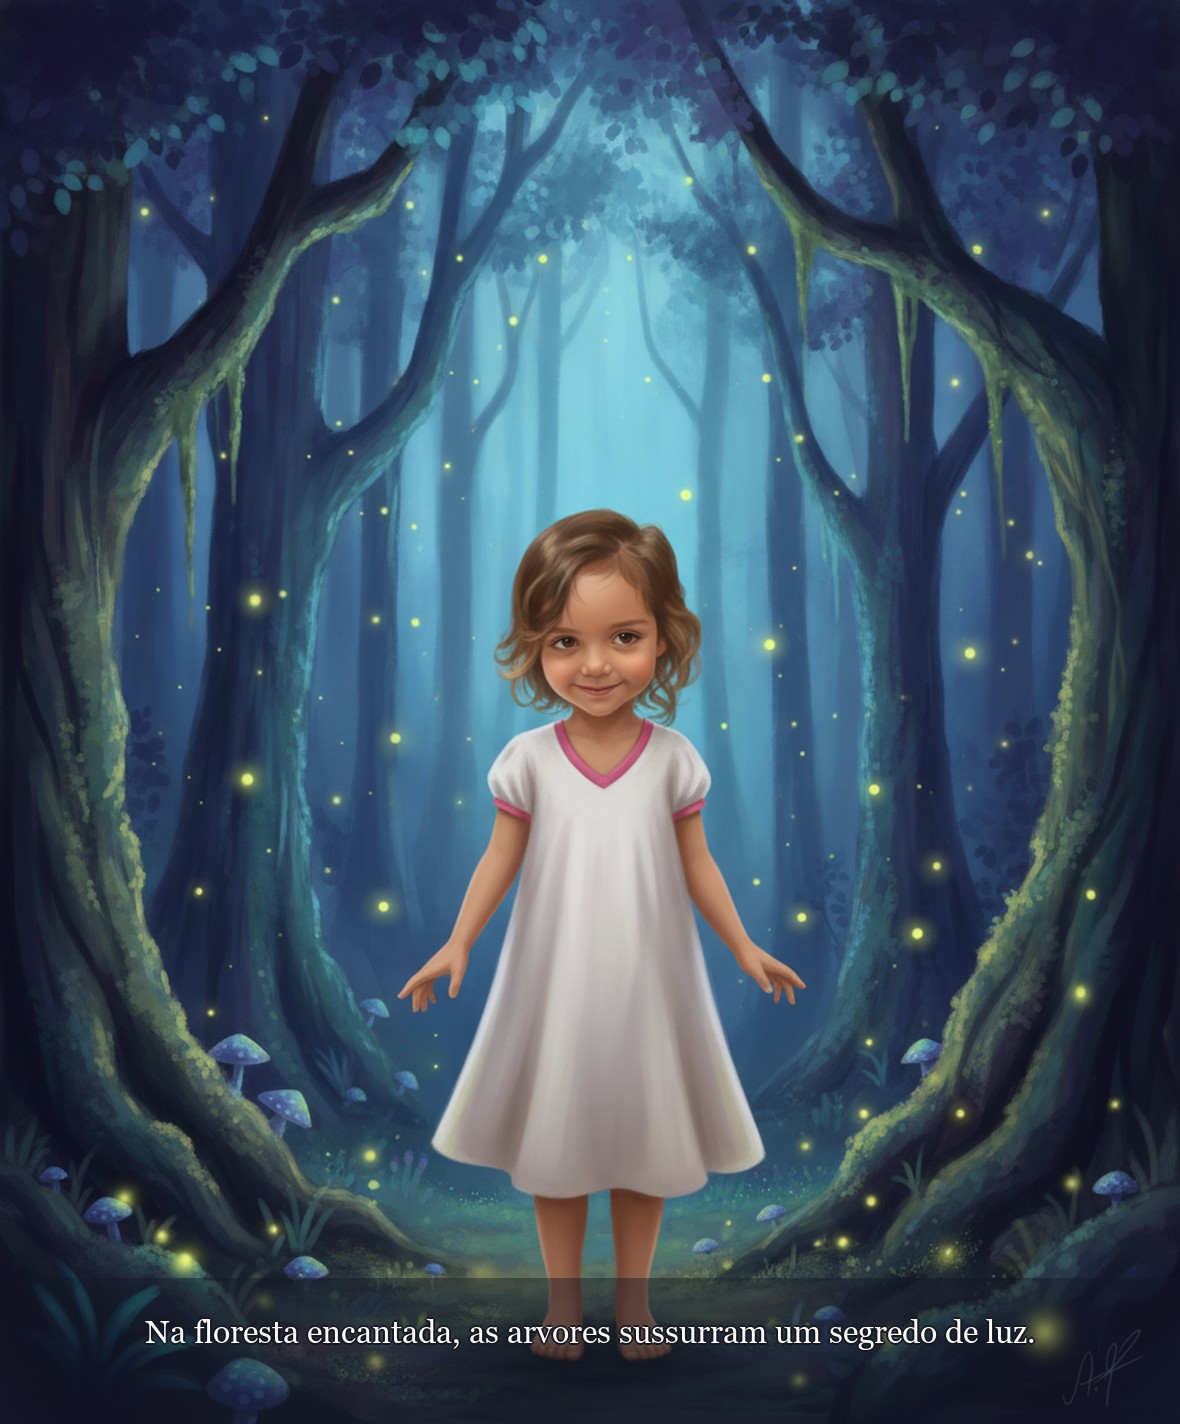
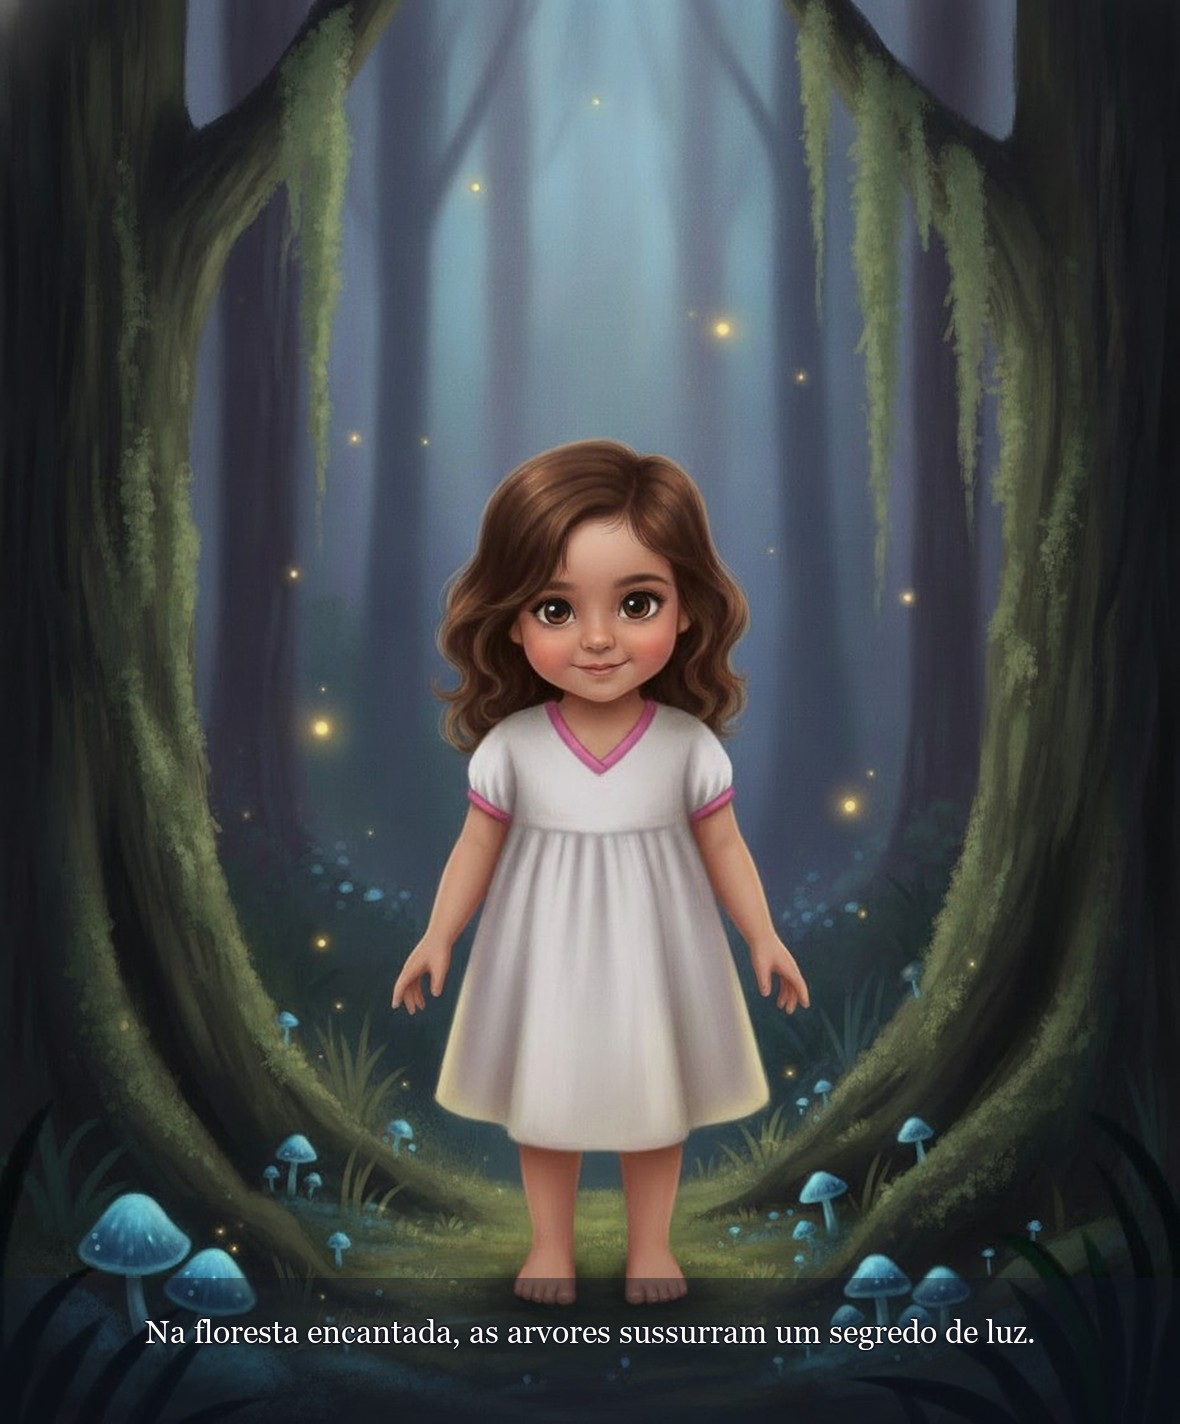
Regenerate Sofia cover face to match her photo and focus the hero crop.

diff --git a/apps/web/src/Landing.tsx b/apps/web/src/Landing.tsx
@@ -76,7 +76,7 @@ const HERO_SLIDES: {
     },
   },
   {
-    photo: "foto-sofia.png", book: "capa-floresta2.jpg", catalogI: 1, bookPos: "center 32%", photoPos: "center center",
+    photo: "foto-sofia.png", book: "capa-floresta2.jpg", catalogI: 1, bookPos: "center 26%", photoPos: "center 22%",
     titleLines: {
       pt: ["Sofia e a Floresta", "Encantada"],
       en: ["Sofia and the", "Enchanted Forest"],

diff --git a/backend/scripts/fix_sofia_face.py b/backend/scripts/fix_sofia_face.py
@@ -1,0 +1,99 @@
+# -*- coding: utf-8 -*-
+"""Regenera avatar + capa da Sofia com rosto fiel a foto-sofia.png.
+
+Uso (Story2/backend):
+  python scripts/fix_sofia_face.py
+"""
+from __future__ import annotations
+
+import asyncio
+import os
+import sys
+from pathlib import Path
+
+BACKEND = Path(__file__).resolve().parents[1]
+ROOT = BACKEND.parent
+sys.path.insert(0, str(BACKEND))
+os.chdir(BACKEND)
+
+import io  # noqa: E402
+
+from PIL import Image  # noqa: E402
+
+from app.ai import gemini  # noqa: E402
+from app.config import settings  # noqa: E402
+
+# Ambiente Windows local às vezes falha o CA bundle; geração pontual não precisa travar nisso.
+settings.gemini_ssl_verify = False
+
+EXEMPLOS = ROOT / "apps" / "web" / "public" / "exemplos"
+
+
+def to_jpg(img_bytes: bytes, out: Path, max_w: int = 1180) -> None:
+    im = Image.open(io.BytesIO(img_bytes)).convert("RGB")
+    if im.width > max_w:
+        im = im.resize((max_w, int(im.height * max_w / im.width)), Image.LANCZOS)
+    im.save(out, "JPEG", quality=90, optimize=True)
+PHOTO = EXEMPLOS / "foto-sofia.png"
+AVATAR = EXEMPLOS / "_avatar-flor.png"
+COVER = EXEMPLOS / "capa-floresta2.jpg"
+HERO = EXEMPLOS / "hero-flor.jpg"
+PAGE1 = EXEMPLOS / "flor-1.jpg"
+
+
+COVER_NOTE = (
+    "BOOK COVER scene (no text anywhere). Sofia alone in a mystical enchanted forest "
+    "at twilight, framed by two large dark tree trunks with soft hanging moss. "
+    "Gentle yellow fireflies and tiny glowing blue mushrooms. She stands facing camera, "
+    "barefoot, white dress with thin pink trim on V-neck and sleeves, soft curious smile. "
+    "CRITICAL FACE RULES: face must be an exact likeness of the attached photo AND character "
+    "reference — same round cheeks, same eye shape/spacing, same small closed-mouth smile, "
+    "same wavy medium-brown hair, same skin tone. Natural symmetric features, soft painterly "
+    "blend into the scene (not pasted-on), no uncanny asymmetry, no oversized anime eyes. "
+    "Refined premium children's picture book, soft realistic lighting. No text, letters, logos."
+)
+
+
+async def main() -> None:
+    if not settings.gemini_api_key:
+        raise SystemExit("GEMINI_API_KEY ausente")
+    if not PHOTO.is_file():
+        raise SystemExit(f"foto ausente: {PHOTO}")
+
+    os.environ.setdefault("GEMINI_FALLBACK_MODELS", "gemini-2.5-flash-image")
+    photo = PHOTO.read_bytes()
+
+    print("gerando avatar (rosto fiel)...", flush=True)
+    char = await gemini.generate_character(
+        photo,
+        name="Sofia",
+        age=3,
+        gender="girl",
+        photo_mime="image/png",
+    )
+    AVATAR.write_bytes(char)
+    print(f"ok {AVATAR.name}", flush=True)
+
+    print("gerando capa com rosto corrigido...", flush=True)
+    # Foto + avatar juntos = mais fidelidade facial na capa
+    prompt = (
+        "Children's book COVER illustration. No text, letters, captions, watermarks, or logos.\n"
+        f"Child name: Sofia\nScene: {COVER_NOTE}\n"
+        "Use BOTH attached images as face identity: (1) real photo, (2) character portrait. "
+        "Match the real photo's face most strictly."
+    )
+    scene = await gemini._generate(
+        [
+            {"text": prompt},
+            gemini._inline(photo, "image/png"),
+            gemini._inline(char, "image/png"),
+        ]
+    )
+    to_jpg(scene, COVER)
+    to_jpg(scene, HERO)
+    print(f"ok {COVER.name} / {HERO.name}", flush=True)
+    print("DONE", flush=True)
+
+
+if __name__ == "__main__":
+    asyncio.run(main())
